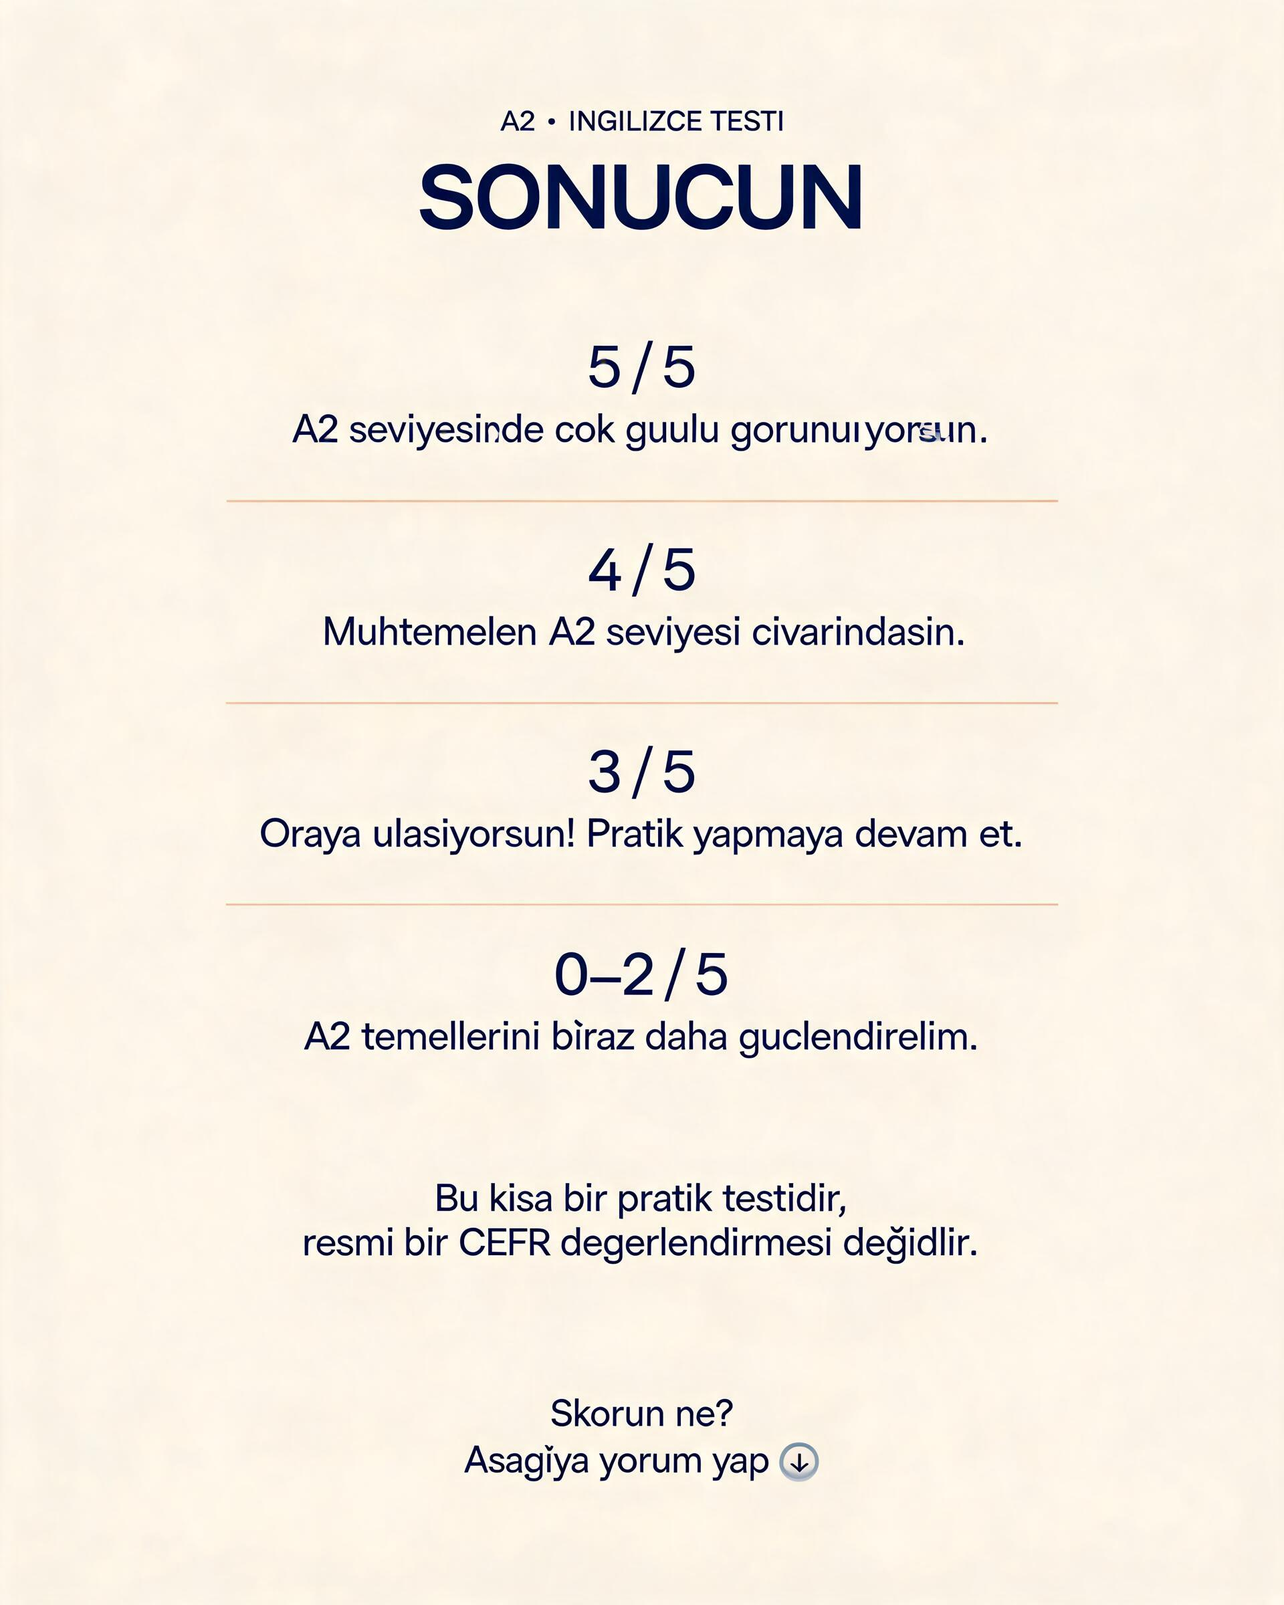
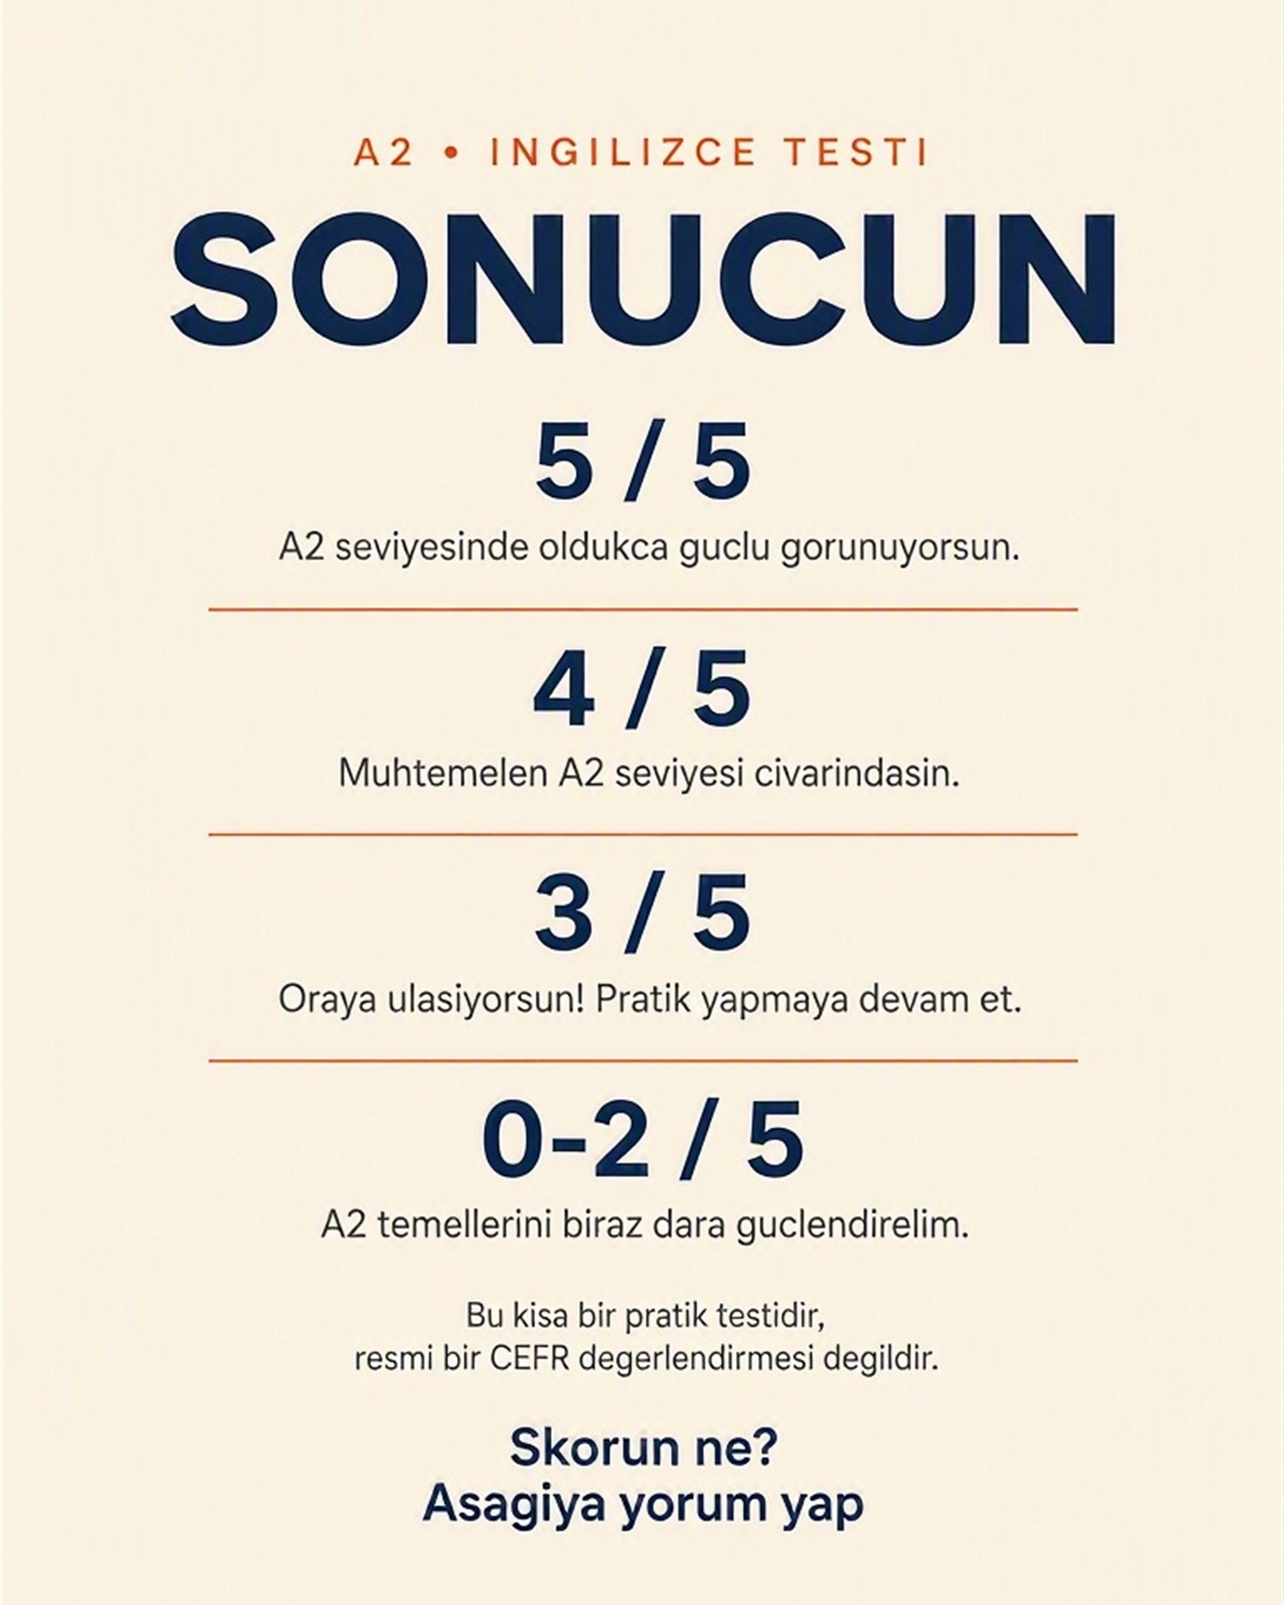
Cevap anahtarlarini ve isaretlenen kartlari yeniden uret
Boyut duzeltmesi:
- a1/7, a2/7, b1/7 1024x1024 kare idi, mai 3:4 -> 1920x2560 olcek ->
  80px simetrik kirp ile 1920x2400'e cevrildi (.png -> .jpg)
- b2/7 boyutu dogruydu, yazim hatalari icin yeniden uretildi
- Artik repodaki 60 gorselin tamami 1920x2400

HATA-RAPORU'nda isaretlenen kartlar:
- lose-vs-loose: Kaybestmek -> Kaybetmek
- effect-vs-affect: (Fill) -> (Eylem), ornek cumle guclendirildi
- a2/8, b1/8, b2/8: guulu, gorunuiyorsun, biraz, Asagiya,
  seviyesnde, gudu, seviyesende duzeldi

Cevap anahtarlarinda duzelenler: fill, fil, filin, conoditional,
Kac dogrune var?

WORKFLOW.md: mai'nin fiil/fiili kelimesini basamamasi ve 3:4'te
768x1024 donmesi Ek D'ye eklendi. Cozum promptu sikilastirmak degil,
kelimeyi degistirmek.

HATA-RAPORU.md: cozulenler ustu cizili isaretlendi, yeni uretimde
cikan kucuk kusurlar kayda gecti.

Caption'larin alt text satirlari yeni metinlerle hizalandi.

Changed region(s): [[0.125, 0.0625, 0.875, 0.7812], [0.2812, 0.8125, 0.7188, 0.9688]]

diff --git a/HATA-RAPORU.md b/HATA-RAPORU.md
@@ -2,7 +2,15 @@
 
 2026-08-11'de repodaki **60 gorselin tamami** tek tek okunarak cikarildi. Hicbiri duzeltilmedi — bu dosya, hangi kartin yeniden uretilmesi gerektigine sonra karar verebilmek icin tutuluyor.
 
-Yeniden uretim yapilacaksa: ayni prompt + farkli `seed`, WORKFLOW.md Faz 4–5.
+Yeniden uretim yapilacaksa: WORKFLOW.md Faz 4–5.
+
+**Cozulenler ustu cizili isaretlenir.** 2026-08-11: dort cevap anahtarinin **hepsi** yeniden uretildi (mai 3:4 → 1920×2560 olcek → 80px kirp → 1920×2400). Uc kare dosya (`a1/7.png`, `a2/7.png`, `b1/7.png`) gitti; artik **repodaki 60 gorselin tamami 1920×2400**. Ayni turda `fill`, `fil`, `filin`, `conoditional`, `Kac dogrune var?` hatalari da duzeldi.
+
+2026-08-11, ikinci tur: kullanicinin `-` ile isaretlemedigi **5 gorsel** yeniden uretildi — `karistirilan/lose-vs-loose`, `karistirilan/effect-vs-affect`, `seviye-testi/{a2,b1,b2}/8.jpg`. Hedeflenen hatalarin **tamami** duzeldi.
+
+**Esik notu:** Kucuk ve goze batmayan kusurlar (bas harf buyuk/kucuk, tirnak yonu, `•` yerine `-`, tek tuk harf hatasi) icin yeniden uretim yapilmiyor. Asagida bunlar listelense de birakilmalari bilincli bir karardir. Satir sonundaki `-` isareti "bu satir gecildi" demektir.
+
+**Model notu:** `fiil` / `fiili` kelimesini iki model de guvenilir basmiyor (`fil`, `fill`, `fili` cikiyor). Cozum promptu sikilastirmak degil, kelimeyi degistirmek: `fiil` → `verb` / `past participle`, `(Fiil)` → `(Eylem)`.
 
 ---
 
@@ -12,28 +20,35 @@ Bunlar diyakritik eksigi degil, gercek harf hatasi. Yayindaki bir postta goze ca
 
 | Dosya | Hatali | Dogrusu |
 |---|---|---|
-| `karistirilan/lose-vs-loose/1.jpg` | `Kaybestmek` | Kaybetmek |
-| `karistirilan/effect-vs-affect/1.jpg` | `AFFECT: Etkilemek (Fill)` | `(Fiil)` |
-| `hikayeli/otel/3.jpg` | `alablir` | alabilir |
-| `durumsal/no-veggies/1.jpg` | `alablir` | alabilir |
-| `durumsal/without-peppers/1.jpg` | `alablir` | alabilir |
-| `hikayeli/otel/5.jpg` | `Seyahat edoceklere gonder` | edeceklere |
-| `hikayeli/otel/2.jpg` | `reservasyonum` | rezervasyonum |
-| `seviye-testi/a1/7.png` | `fill -s takisi` | `fiil -s takisi` |
-| `seviye-testi/a1/7.png` | `I" oznesi` (acilis tirnagi yok) | `"I" oznesi` |
-| `seviye-testi/b1/7.png` | `would + fil` / `filin 3. hali` | fiil / fiilin |
-| `seviye-testi/b2/7.jpg` | `Third conoditional` | conditional |
-| `seviye-testi/b2/7.jpg` | `Kac dogrune var?` | `Kac dogrun var?` |
-| `seviye-testi/a2/8.jpg` | `guulu` | guclu |
-| `seviye-testi/a2/8.jpg` | `gorunuıyorsun` (fazladan `ı` + hayalet glif) | gorunuyorsun |
-| `seviye-testi/b1/8.jpg` | `seviyesnde` | seviyesinde |
-| `seviye-testi/b1/8.jpg` | `gudu` | guclu |
-| `seviye-testi/b2/8.jpg` | `seviyesende` | seviyesinde |
-| `seviye-testi/{a1,a2,b1,b2}/8.jpg` | `değidlir` / `degidlir` | degildir |
+| ~~`karistirilan/lose-vs-loose/1.jpg`~~ | ~~`Kaybestmek`~~ | ✅ **cozuldu** |
+| ~~`karistirilan/effect-vs-affect/1.jpg`~~ | ~~`AFFECT: Etkilemek (Fill)`~~ | ✅ **cozuldu** — `(Eylem)` olarak yazildi |
+| `hikayeli/otel/3.jpg` | `alablir` | alabilir | -
+| `durumsal/no-veggies/1.jpg` | `alablir` | alabilir | -
+| `durumsal/without-peppers/1.jpg` | `alablir` | alabilir | -
+| `hikayeli/otel/5.jpg` | `Seyahat edoceklere gonder` | edeceklere | -
+| `hikayeli/otel/2.jpg` | `reservasyonum` | rezervasyonum |-
+| ~~`seviye-testi/a1/7.png`~~ | ~~`fill -s takisi`~~ | ✅ **cozuldu** — 7.jpg olarak yeniden uretildi |
+| ~~`seviye-testi/a1/7.png`~~ | ~~`I" oznesi`~~ | ✅ **cozuldu** — ayni uretimde |
+| ~~`seviye-testi/b1/7.png`~~ | ~~`would + fil` / `filin 3. hali`~~ | ✅ **cozuldu** — `would + verb` / `past participle` |
+| ~~`seviye-testi/b2/7.jpg`~~ | ~~`Third conoditional`~~ | ✅ **cozuldu** — parantezli terim kaldirildi |
+| ~~`seviye-testi/b2/7.jpg`~~ | ~~`Kac dogrune var?`~~ | ✅ **cozuldu** |
+| `seviye-testi/b2/7.jpg` | `sora` (yeni uretimde) | sonra | -
+| `seviye-testi/b2/7.jpg` | `tamahen` (yeni uretimde) | tamamen | -
+| `seviye-testi/b2/7.jpg` | `vera` (yeni uretimde) | veya | -
+| ~~`seviye-testi/a2/8.jpg`~~ | ~~`guulu`~~ | ✅ **cozuldu** |
+| ~~`seviye-testi/a2/8.jpg`~~ | ~~`gorunuıyorsun`~~ | ✅ **cozuldu** |
+| ~~`seviye-testi/b1/8.jpg`~~ | ~~`seviyesnde`~~ | ✅ **cozuldu** |
+| ~~`seviye-testi/b1/8.jpg`~~ | ~~`gudu`~~ | ✅ **cozuldu** |
+| ~~`seviye-testi/b2/8.jpg`~~ | ~~`seviyesende`~~ | ✅ **cozuldu** |
+| `seviye-testi/a1/8.jpg` | `değidlir` | degildir — **a1'e dokunulmadi**, a2/b1/b2'de yeni uretimde duzeldi | -
+| `seviye-testi/{a2,b1,b2}/8.jpg` | `dara` (yeni uretimde) | daha | -
+| `seviye-testi/b1/8.jpg` | `bir az` (yeni uretimde) | biraz | -
+| `seviye-testi/b2/8.jpg` | `guclendirelem` (yeni uretimde) | guclendirelim | -
+| `karistirilan/effect-vs-affect/1.jpg` | `takipte kali` (yeni uretimde) | takipte kal | -
 
 **Not:** ayni kelime her deste farkli bozulmus — `guclu` → `guulu` (a2), `gudu` (b1), dogru (b2). Tek bir arama-degistirme ile yakalanmaz.
 
-`hikayeli/otel/2.jpg` ayrica **zaman uyumsuzlugu** tasiyor: Ingilizce `I have a reservation` (genis zaman) ama Turkce `rezervasyonum vardi` (gecmis). Dogrusu `var`.
+`hikayeli/otel/2.jpg` ayrica **zaman uyumsuzlugu** tasiyor: Ingilizce `I have a reservation` (genis zaman) ama Turkce `rezervasyonum vardi` (gecmis). Dogrusu `var`. -
 
 ## 2. Yabanci diyakritik sizintisi
 
@@ -41,24 +56,24 @@ Modelin Turkce olmayan aksanli harf basmasi. Kelime yanlis gorunuyor.
 
 | Dosya | Hatali | Dogrusu |
 |---|---|---|
-| `karistirilan/make-vs-do/1.jpg` | `gónderiyi` (ó) | gonderiyi |
-| `durumsal/no-veggies/1.jpg` | `nasĭl` (ĭ) | nasil |
-| `seviye-testi/a2/8.jpg` | `bìraz` (ì) | biraz |
-| `seviye-testi/a2/8.jpg` | `Asagĭya` (ĭ) | Asagiya |
-| `seviye-testi/b2/8.jpg` | `kísa`, `bír` (í) | kisa, bir |
+| `karistirilan/make-vs-do/1.jpg` | `gónderiyi` (ó) | gonderiyi | -
+| `durumsal/no-veggies/1.jpg` | `nasĭl` (ĭ) | nasil | -
+| ~~`seviye-testi/a2/8.jpg`~~ | ~~`bìraz` (ì)~~ | ✅ **cozuldu** |
+| ~~`seviye-testi/a2/8.jpg`~~ | ~~`Asagĭya` (ĭ)~~ | ✅ **cozuldu** |
+| `seviye-testi/b2/8.jpg` | `kísa`, `bír` (í) | kisa, bir | -
 
 ## 3. Yapisal hatalar
 
 | Dosya | Sorun | Etki |
 |---|---|---|
-| `seviye-testi/a1/7.png` | **1024×1024 kare** (digerleri 1920×2400) | Karuselde kirpilir — en yuksek oncelikli yapisal hata |
-| `seviye-testi/a2/7.png` | 1024×1024 kare | Ayni |
-| `seviye-testi/b1/7.png` | 1024×1024 kare | Ayni |
-| `phrasal/run-out-of/1.jpg` | Baslik `RUN OUT` / `OF` seklinde **iki farkli puntoda** kirilmis | Otomatik sigdirma artefakti, baslik bozuk goruluyor |
-| `seviye-testi/b2/3.jpg` | Soru ve CTA **serif** fontta | 60 gorselin tek serif'i, marka disi |
-| `seviye-testi/b2/2.jpg` | `SORU 01 / 05` sayaci basliktan kopmus, soruya yapismis | Ust blok dagilmis |
+| ~~`seviye-testi/a1/7.png`~~ | ~~1024×1024 kare~~ | ✅ **cozuldu** — `a1/7.jpg`, 1920×2400 |
+| ~~`seviye-testi/a2/7.png`~~ | ~~1024×1024 kare~~ | ✅ **cozuldu** — `a2/7.jpg`, 1920×2400 |
+| ~~`seviye-testi/b1/7.png`~~ | ~~1024×1024 kare~~ | ✅ **cozuldu** — `b1/7.jpg`, 1920×2400 |
+| `phrasal/run-out-of/1.jpg` | Baslik `RUN OUT` / `OF` seklinde **iki farkli puntoda** kirilmis | Otomatik sigdirma artefakti, baslik bozuk goruluyor | -
+| `seviye-testi/b2/3.jpg` | Soru ve CTA **serif** fontta | 60 gorselin tek serif'i, marka disi | -
+| `seviye-testi/b2/2.jpg` | `SORU 01 / 05` sayaci basliktan kopmus, soruya yapismis | Ust blok dagilmis | -
 
-`seviye-testi/b2/7.jpg` dort cevap anahtarindan **tek 4:5 olani** — yani format hatasi setin kendi icinde bile tutarsiz.
+`seviye-testi/b2/7.jpg` dort cevap anahtarindan **tek 4:5 olani** — yani format hatasi setin kendi icinde bile tutarsiz. -
 
 ## 4. Marka tutarsizliklari — dusuk oncelik
 

diff --git a/seviye-testi/b2/caption.md b/seviye-testi/b2/caption.md
@@ -20,5 +20,5 @@ Kaç doğrun var? Yorumlara yaz 👇
 4. Soru 03 / 05. Boşluklu cümle: "If she had left earlier, she ___ the train." Kutulu şıklar: A) wouldn't miss, B) wouldn't have missed, C) didn't miss. Altta "Cevabını seç."
 5. Soru 04 / 05. Boşluklu cümle: "We need to ___ a solution before the meeting tomorrow." Kutulu şıklar: A) come up with, B) get away with, C) put up with. Altta "Cevabını seç."
 6. Soru 05 / 05. Boşluklu cümle: "By next year, I ___ at this company for ten years." Kutulu şıklar: A) will work, B) will have worked, C) have worked. Altta "Cevabını seç."
-7. Cevap anahtarı. Beş madde: 01 — B) have I seen, "Rarely" gibi olumsuz zarflardan sonra devrik cümle kullanılır. 02 — A) eliminate, "eliminate" bir şeyi tamamen ortadan kaldırmak, yok etmek anlamına gelir. 03 — B) wouldn't have missed, Tip 3 koşul cümlesi: geçmişteki durum + would have + fiilin 3. hâli. 04 — A) come up with, "come up with" bir fikir veya çözüm bulmak, üretmek demektir. 05 — B) will have worked, future perfect gelecekte belirli bir zamana kadar tamamlanmış olacak eylemleri anlatır. Altta "Kaç doğrun var? Sonucunu görmek için sonraki slayta kaydır."
-8. Sonuç slaytı. "SONUCUN" başlığı altında dört satır: 5/5 B2 seviyesinde oldukça güçlü görünüyorsun. 4/5 Muhtemelen B2 seviyesi civarındasın. 3/5 Oraya ulaşıyorsun, pratik yapmaya devam et. 0-2/5 B2 temellerini biraz daha güçlendirelim. Altta uyarı: bu kısa bir pratik testidir, resmi bir CEFR değerlendirmesi değildir. En altta "Skorun ne? Aşağıya yorum yap 🙂".
+7. Cevap anahtarı. Aralarında ince turuncu ayraçlar olan beş madde: 01 • B) have I seen, Rarely gibi olumsuz zarflardan sonra devrik cümle kullanılır. 02 • A) eliminate, Eliminate bir şeyi tamamen ortadan kaldırmak demektir. 03 • B) wouldn't have missed, Type 3 Koşul Cümlesi: geçmişteki durum + would have + past participle. 04 • A) come up with, Come up with bir fikir veya çözüm bulmak demektir. 05 • B) will have worked, future perfect gelecekte tamamlanacak eylemleri anlatır. Altta "Kaç doğrun var? Sonucunu görmek için sonraki slayta kaydır."
+8. Sonuç slaytı. "SONUCUN" başlığı altında, aralarında ince turuncu ayraçlar olan dört blok: 5/5 B2 seviyesinde oldukça güçlü görünüyorsun. 4/5 Muhtemelen B2 seviyesi civarındasın. 3/5 Oraya ulaşıyorsun, pratik yapmaya devam et. 0-2/5 B2 temellerini biraz daha güçlendirelim. Altta uyarı: bu kısa bir pratik testidir, resmi bir CEFR değerlendirmesi değildir. En altta "Skorun ne? Aşağıya yorum yap".

diff --git a/seviye-testi/a2/caption.md b/seviye-testi/a2/caption.md
@@ -20,5 +20,5 @@ Kaç doğrun var? Yorumlara yaz 👇
 4. Soru 03 / 05. Boşluklu cümle: "She is very good ___ playing the piano." Kutulu şıklar: A) in, B) on, C) at. Altta "Cevabını seç."
 5. Soru 04 / 05. Boşluklu cümle: "We ___ to the beach tomorrow." Kutulu şıklar: A) are going, B) going, C) goes. Altta "Cevabını seç."
 6. Soru 05 / 05. Boşluklu cümle: "There isn't ___ milk in the fridge." Kutulu şıklar: A) some, B) many, C) any. Altta "Cevabını seç."
-7. Cevap anahtarı. Beş madde: 01 — B) saw, geçmişte yaşanmış ve bitmiş eylemler için Simple Past kullanılır. 02 — A) faster, iki şeyi karşılaştırırken kısa sıfatlara "-er" takısı eklenir. 03 — C) at, bir konuda iyi veya kötü olduğumuzu belirtirken "good at" veya "bad at" kullanılır. 04 — A) are going, gelecekle ilgili önceden planlanmış eylemler için Present Continuous kullanılabilir. 05 — C) any, olumsuz cümlelerde ve sorularda sayılamayan isimlerle "any" kullanılır. Altta "Kaç doğrun var? Sonucunu görmek için sonraki slayta kaydır."
-8. Sonuç slaytı. "SONUCUN" başlığı altında dört satır: 5/5 A2 seviyesinde çok güçlü görünüyorsun. 4/5 Muhtemelen A2 seviyesi civarındasın. 3/5 Oraya ulaşıyorsun, pratik yapmaya devam et. 0-2/5 A2 temellerini biraz daha güçlendirelim. Altta uyarı: bu kısa bir pratik testidir, resmi bir CEFR değerlendirmesi değildir. En altta "Skorun ne? Aşağıya yorum yap ⬇".
+7. Cevap anahtarı. Aralarında ince turuncu ayraçlar olan beş madde: 01 - B) saw, geçmişte yaşanmış ve bitmiş eylemler için Simple Past kullanılır. 02 - A) faster, iki şeyi karşılaştırırken kısa sıfatlara "-er" takısı eklenir. 03 - C) at, bir konuda iyi veya kötü olmayı belirtirken "good at" kullanılır. 04 - A) are going, önceden planlanmış gelecek eylemler için Present Continuous kullanılır. 05 - C) any, olumsuz cümlelerde ve sorularda sayılamayan isimlerle "any" kullanılır. Altta "Kaç doğrun var? Sonucunu görmek için sonraki slayta kaydır."
+8. Sonuç slaytı. "SONUCUN" başlığı altında, aralarında ince turuncu ayraçlar olan dört blok: 5/5 A2 seviyesinde oldukça güçlü görünüyorsun. 4/5 Muhtemelen A2 seviyesi civarındasın. 3/5 Oraya ulaşıyorsun, pratik yapmaya devam et. 0-2/5 A2 temellerini biraz daha güçlendirelim. Altta uyarı: bu kısa bir pratik testidir, resmi bir CEFR değerlendirmesi değildir. En altta "Skorun ne? Aşağıya yorum yap".

diff --git a/seviye-testi/b1/caption.md b/seviye-testi/b1/caption.md
@@ -20,5 +20,5 @@ Kaç doğrun var? Yorumlara yaz 👇
 4. Soru 03 / 05. Boşluklu cümle: "I'm really ___ after working all day." Kutulu şıklar: A) exhausted, B) exhausting, C) exhaust. Altta "Cevabını seç."
 5. Soru 04 / 05. Boşluklu cümle: "Have you ever ___ sushi?" Kutulu şıklar: A) ate, B) eaten, C) eat. Altta "Cevabını seç."
 6. Soru 05 / 05. Boşluklu cümle: "Can you ___ the TV? I want to watch the news." Kutulu şıklar: A) turn on, B) turn up, C) turn over. Altta "Cevabını seç."
-7. Cevap anahtarı. Beş madde: 01 — B) since, zaman içinde bir başlangıç noktası belirtirken "since" kullanılır. 02 — B) had, Tip 2 koşul cümlesi: If + past simple, would + fiil. 03 — A) exhausted, "exhausted" bir kişinin nasıl hissettiğini tanımlar. 04 — B) eaten, present perfect have/has + fiilin 3. hâli ile kurulur. 05 — A) turn on, "turn on" bir cihazı çalıştırmak anlamına gelir. Altta "Kaç doğrun var? Sonucunu görmek için sonraki slayta kaydır."
-8. Sonuç slaytı. "SONUCUN" başlığı altında dört satır: 5/5 B1 seviyesinde oldukça güçlü görünüyorsun. 4/5 Muhtemelen B1 seviyesi civarındasın. 3/5 Oraya ulaşıyorsun, pratik yapmaya devam et. 0-2/5 B1 temellerini biraz daha güçlendirelim. Altta uyarı: bu kısa bir pratik testidir, resmi bir CEFR değerlendirmesi değildir. En altta "Skorun ne? Aşağıya yorum yap ⬇".
+7. Cevap anahtarı. Aralarında ince turuncu ayraçlar olan beş madde: 01 • B) since, zaman içinde bir başlangıç noktası belirtirken "since" kullanılır. 02 • B) had, Type 2 Koşul Cümlesi: If + past simple, would + verb. 03 • A) exhausted, "Exhausted" bir kişinin nasıl hissettiğini tanımlar. 04 • B) eaten, present perfect have/has + past participle ile kurulur. 05 • A) turn on, "Turn on" bir cihazı çalıştırmak anlamına gelir. Altta "Kaç doğrun var? Sonucunu görmek için sonraki slayta kaydır."
+8. Sonuç slaytı. "SONUCUN" başlığı altında, aralarında ince turuncu ayraçlar olan dört blok: 5/5 B1 seviyesinde oldukça güçlü görünüyorsun. 4/5 Muhtemelen B1 seviyesi civarındasın. 3/5 Oraya ulaşıyorsun, pratik yapmaya devam et. 0-2/5 B1 temellerini biraz daha güçlendirelim. Altta uyarı: bu kısa bir pratik testidir, resmi bir CEFR değerlendirmesi değildir. En altta "Skorun ne? Aşağıya yorum yap".

diff --git a/seviye-testi/a1/caption.md b/seviye-testi/a1/caption.md
@@ -20,5 +20,5 @@ Kaç doğrun var? Yorumlara yaz 👇
 4. Soru 03 / 05. Boşluklu cümle: "___ are my books." Kutulu şıklar: A) This, B) That, C) These. Altta "Cevabını seç."
 5. Soru 04 / 05. Boşluklu cümle: "___ do you live?" Kutulu şıklar: A) What, B) Where, C) Who. Altta "Cevabını seç."
 6. Soru 05 / 05. Boşluklu cümle: "What time is ___?" Kutulu şıklar: A) it, B) this, C) that. Altta "Cevabını seç."
-7. Cevap anahtarı. Beş madde: 01 — A) am, "I" öznesi ile "am" yardımcı fiili kullanılır. 02 — B) goes, geniş zamanda he, she, it özneleriyle fiil -s takısı alır. 03 — C) These, çoğul ve yakındaki nesneler için "These" kullanılır. 04 — B) Where, yer ve mekân sorarken "Where" kullanılır. 05 — A) it, saati sorarken "What time is it" kalıbı kullanılır. Altta "Kaç doğrun var? Sonucunu görmek için sonraki slayta kaydır."
+7. Cevap anahtarı. Aralarında ince turuncu ayraçlar olan beş madde: 01 • A) am, "I" öznesi her zaman "am" ile kullanılır. 02 • B) goes, geniş zamanda he, she, it özneleriyle fiil -s takısı alır. 03 • C) These, çoğul ve yakındaki nesneler için "These" kullanılır. 04 • B) Where, yer ve mekân sorarken "Where" kelimesi kullanılır. 05 • A) it, saatleri sorarken "What time is it" kalıbı kullanılır. Altta "Kaç doğrun var? Sonucunu görmek için sonraki slayta kaydır."
 8. Sonuç slaytı. "SONUCUN" başlığı altında dört satır: 5/5 A1 seviyesinde harika görünüyorsun. 4/5 A1 seviyesini güzel kavramışsın. 3/5 İyi gidiyorsun, pratik yapmaya devam et. 0-2/5 Temel kelime ve gramer çalışmaya devam. Altta uyarı: bu kısa bir pratik testidir, resmi bir CEFR değerlendirmesi değildir. En altta "Skorun ne? Aşağıya yorum yap ⬇".

diff --git a/WORKFLOW.md b/WORKFLOW.md
@@ -394,6 +394,8 @@ if ($metin -match '[çğıöşüÇĞİÖŞÜ]') { "ASCII DEGIL: $metin" }
 | Turkce diyakritik | `gónderiyi`, `değidlir` | ASCII-only + Faz 5 denetimi |
 | Kucuk puntoda yogun metin | `conoditional`, `dogrune` | 5+ satirli slaytta mai kullan |
 | Gemini metni "duzeltir" | Diyakritik geri gelir, cumle degisir | Prompt'ta birebir tirnak sarti + donen prompt kontrolu |
+| mai `fiili` kelimesini basamiyor | `fili` / `fill` cikiyor, ust uste 2 denemede duzelmedi | Kelimeyi cumleden cikar. `"I" oznesi ile "am" yardimci fiili kullanilir` → `"I" oznesi her zaman "am" ile kullanilir`. Ayni promptu tekrar gondermek ise yaramiyor, metni kisaltmak yariyor |
+| mai 3:4'te 768×1024 donuyor | Kaynak cozunurluk dusuk, 1920'ye olceklerken 2.5x buyutme | Kacinilmaz — mai'de cozunurluk parametresi yok. IG zaten 1080'e indirdigi icin pratikte sorun cikarmiyor |
 | `.env` public repoda | Anahtar sizinti | `.gitignore`'da `.env`; commit oncesi `git status` kontrolu |
 
 ## Ek E — Dogrulanmis API kunyesi

diff --git a/karistirilan/effect-vs-affect/caption.md b/karistirilan/effect-vs-affect/caption.md
@@ -14,4 +14,4 @@ Bu ikisini ana dili İngilizce olanlar bile karıştırıyor — ama ayrım tek 
 
 ## Alt text
 
-1. Krem renkli dikey poster. Üstte turuncu "SIK KARIŞTIRILANLAR" etiketi. Ortada koyu lacivert dev harflerle "EFFECT vs AFFECT" başlığı. Altında iki blok: "EFFECT: Etki (İsim)" ve örnek "The thermal paste effect."; "AFFECT: Etkilemek (Fiil)" ve örnek "Ping affects the game." En altta "Öğrenmek için takipte kal 🤙" çağrısı.
+1. Krem renkli dikey poster. Üstte turuncu "SIK KARIŞTIRILANLAR" etiketi. Ortada koyu lacivert dev harflerle "EFFECT vs AFFECT" başlığı. Altında iki blok: "EFFECT: Etki (İsim)" ve örnek "The thermal paste had a big effect."; "AFFECT: Etkilemek (Eylem)" ve örnek "Ping affects the game." En altta "Öğrenmek için takipte kal" çağrısı.

diff --git a/karistirilan/lose-vs-loose/caption.md b/karistirilan/lose-vs-loose/caption.md
@@ -14,4 +14,4 @@ Farkları öğrendin mi? Kaydet 👇
 
 ## Alt text
 
-1. Krem renkli dikey poster. Üstte turuncu "SIK KARIŞTIRILANLAR" etiketi. Ortada koyu lacivert dev harflerle "LOSE vs LOOSE" başlığı. Altında iki blok: "LOSE: Kaybetmek" ve örnek "Don't lose the CS2 match."; "LOOSE: Gevşek" ve örnek "The monitor arm is loose." En altta "Farkları öğrendin mi? Kaydet ⬇" çağrısı.
+1. Krem renkli dikey poster. Üstte turuncu "SIK KARIŞTIRILANLAR" etiketi. Ortada koyu lacivert dev harflerle "LOSE vs LOOSE" başlığı. Altında iki blok: "LOSE: Kaybetmek" ve örnek "Don't lose the CS2 match."; "LOOSE: Gevşek" ve örnek "The monitor arm is loose." En altta "Farkları öğrendin mi? Kaydet" çağrısı.
